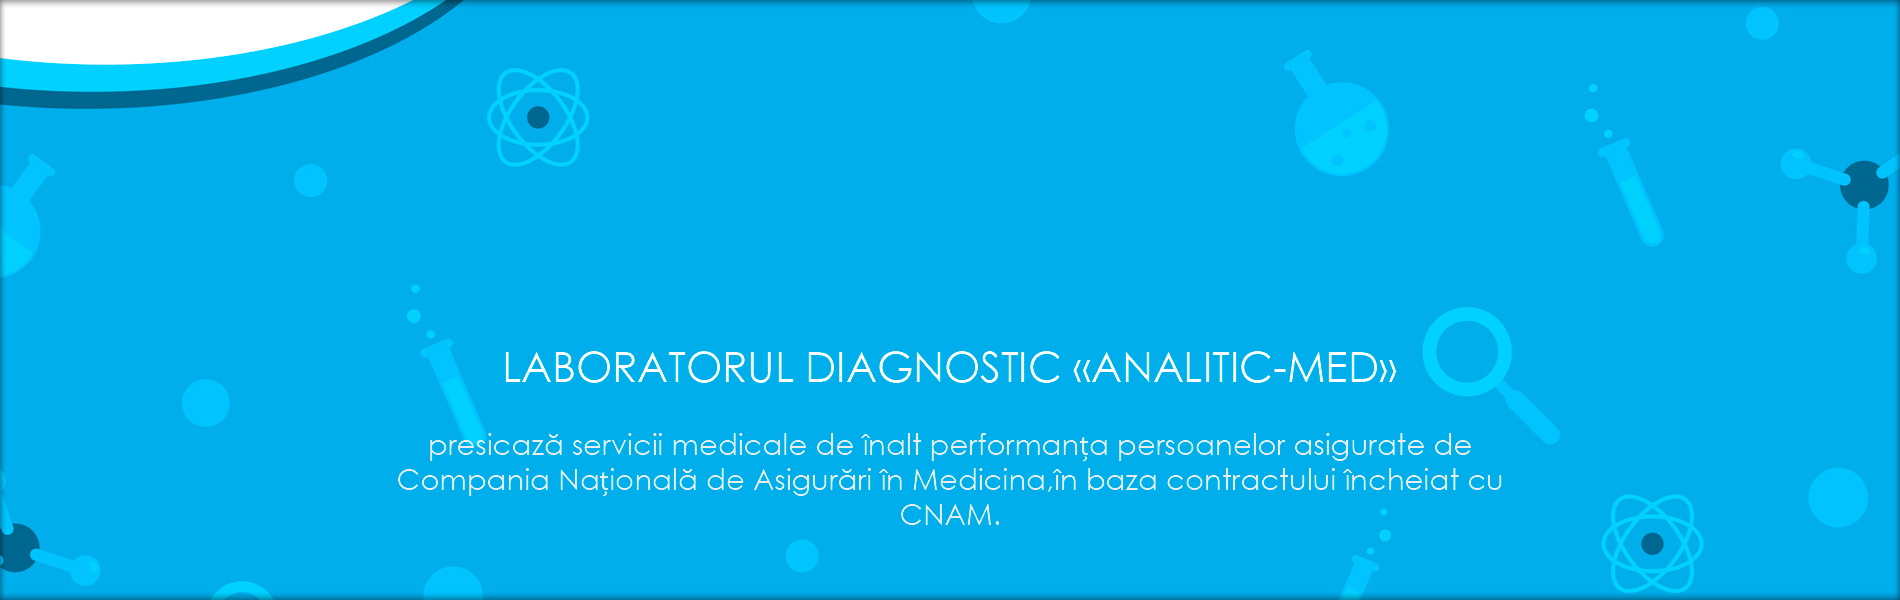
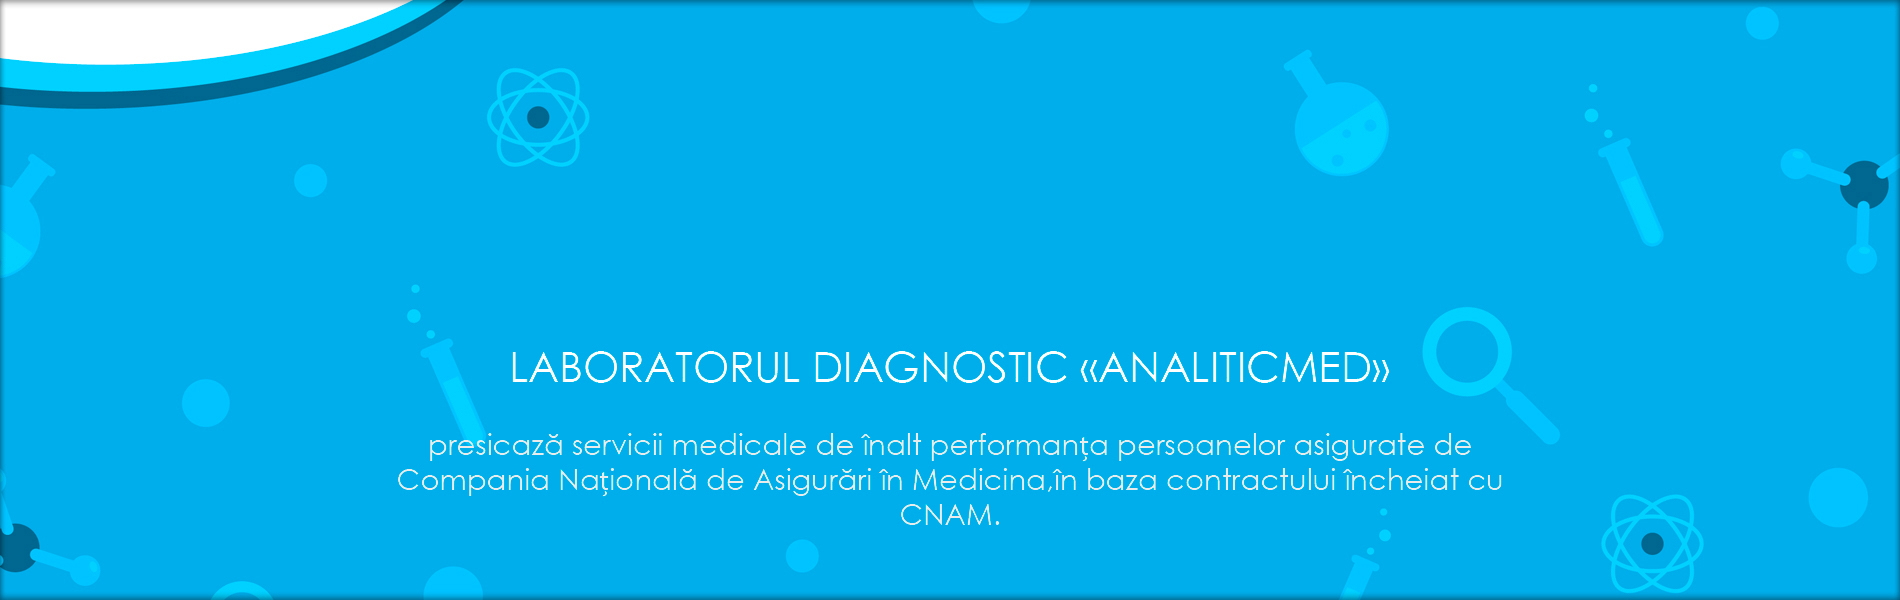
01.11

Changed region(s): [[0.2484, 0.57, 0.7453, 0.66]]

diff --git a/laravel-analiticmed/resources/views/main.blade.php b/laravel-analiticmed/resources/views/main.blade.php
@@ -1,6 +1,6 @@
 @extends('layout')
 
-@section('title') Analitic-Med @endsection
+@section('title') AnaliticMed @endsection
 
 
 @section('main_content')
@@ -87,6 +87,7 @@
 
         <h2 class="container fst-italic fw-bold mt-3 text-center">Suport Clienții</h2>
         <p class="lead text-center">Ne puteți contacta pentru a primi informație și consultanța noastră de calitatea.</p>
+        <br>
         <div class="text-center">
         <a href="feedback" class=" ml-auto mt-auto btn btn-primary w-50">Contactează</a></p>
         </div>
@@ -103,8 +104,8 @@
     <br>
 
     <div class="row featurette ">
-      <div class="col-md-7 h-50" >
-        <h2 class="featurette-heading text-center">„Traveling Covid-19 Free”<span class="text-muted">cu AnaliticMed</span></h2>
+      <div class="col-md-7 " >
+        <h2 class="featurette-heading text-center">„Traveling Covid-19 Free”<span class="text-muted">cu "AnaliticMed"</span></h2>
         <p class="lead text-center p-3">Aplicația „Traveling Covid-19 Free” vă permite să găsiți laboratoare din apropiere pentru a vă testa testele pentru Covid-19 înainte de a călători între Federația Rusă, Republica Armenia, Republica Belarus, Republica Uzbekistan, Republica Kazahstan, Republica Kârgâzstan, Republica Tadjikistan și Republica Azerbaidjan.
 La trecerea frontierei, arătați codul QR cu rezultatele testelor unui ofițer autorizat care are dreptul să solicite rezultatele testului PCR în conformitate cu reglementările naționale.</p> <br> <br>
         <p class="lead text-center">Descărcați aplicația oficială de pe <b>Play Market :</b></p>
@@ -119,12 +120,14 @@ La trecerea frontierei, arătați codul QR cu rezultatele testelor unui ofițer 
     <hr class="featurette-divider">
 
     <div class="row featurette">
-      <div class="col-md-7 order-md-2">
-        <h2 class="featurette-heading text-center">Oh yeah, it’s that good. <span class="text-muted">See for yourself.</span></h2>
-        <p class="lead text-center p-3">Another featurette? Of course. More placeholder Lorem ipsum, dolor sit amet consectetur adipisicing elit. Eaque iste recusandae minima ab quia esse impedit totam ullam sint, nesciunt voluptatibus quo ipsum magnam autem quam culpa suscipit! Iure, distinctio. ntent here to give you an idea of how this layout would work with some actual real-world content in place.</p>
+      <div class="col-md-7 order-md-2 ">
+        <h2 class="featurette-heading text-center">COVID-19 <span class="text-muted">De ce în "AnaliticMed"?</span></h2>
+        <p class="lead text-center p-3">În laboratorul nostru, puteți face orice test COVID-19 de care aveți nevoie și obțineți rezultatul cu un certificat<b class="fw-bold"> în aceeași zi.</b> Suntem singurul laborator care poate face asta.
+           Pentru a face acest lucru, trebuie doar să treceți analiza de la 8:00 pâna la 14:00 și deja după prânz, în aceeași zi, dumneavoastra vei primi certificatul.
+        <p class="lead text-center p-3">Pentru a afla regulile de efectuare a analizelor și alte detalii, intră aici sau <a href="feedback" class="fw-bold">contactează-ne.</a></p></p></p>
       </div>
       <div class="col-md-5 order-md-1">
-        <svg class="bd-placeholder-img bd-placeholder-img-lg featurette-image img-fluid mx-auto rounded" width="500" height="500" xmlns="http://www.w3.org/2000/svg" role="img" aria-label="Placeholder: 500x500" preserveAspectRatio="xMidYMid slice" focusable="false"><title>Placeholder</title><rect width="100%" height="100%" fill="#eee"></rect><text x="50%" y="50%" fill="#aaa" dy=".3em">500x500</text></svg>
+      <img class="bd-placeholder-img bd-placeholder-img-lg featurette-image img-fluid mx-auto rounded p-2" src="{{asset('images/covid2.jpg')}}" width="500" height="500" xmlns="http://www.w3.org/2000/svg" role="img" aria-label="Placeholder: 500x500" preserveAspectRatio="xMidYMid slice" focusable="false"><title>Placeholder</title><rect width="100%" height="100%" fill="#eee"></rect><text x="50%" y="50%" fill="#aaa" dy=".3em"></text></img>
 
       </div>
     </div>

diff --git a/laravel-analiticmed/resources/views/feed.blade.php b/laravel-analiticmed/resources/views/feed.blade.php
@@ -39,6 +39,73 @@
 
 </form>
 
+<div class="container mt-5">
+  
+  <h4 class="display-6 fst-italic fw-bold text-center">Contacte:<h4>
+ </div>
+      
+
+    <div class="container py-3">
+ 
+
+ <main>
+  
+   <div class="row row-cols-1 row-cols-md-3 mb-3 text-center">
+     <div class="col">
+       <div class="card mb-4 rounded-3 shadow-sm">
+         <div class="card-header py-3">
+         <svg xmlns="http://www.w3.org/2000/svg" width="48" height="48" fill="currentColor" class="bi bi-telephone" viewBox="0 0 16 16">
+ <path d="M3.654 1.328a.678.678 0 0 0-1.015-.063L1.605 2.3c-.483.484-.661 1.169-.45 1.77a17.568 17.568 0 0 0 4.168 6.608 17.569 17.569 0 0 0 6.608 4.168c.601.211 1.286.033 1.77-.45l1.034-1.034a.678.678 0 0 0-.063-1.015l-2.307-1.794a.678.678 0 0 0-.58-.122l-2.19.547a1.745 1.745 0 0 1-1.657-.459L5.482 8.062a1.745 1.745 0 0 1-.46-1.657l.548-2.19a.678.678 0 0 0-.122-.58L3.654 1.328zM1.884.511a1.745 1.745 0 0 1 2.612.163L6.29 2.98c.329.423.445.974.315 1.494l-.547 2.19a.678.678 0 0 0 .178.643l2.457 2.457a.678.678 0 0 0 .644.178l2.189-.547a1.745 1.745 0 0 1 1.494.315l2.306 1.794c.829.645.905 1.87.163 2.611l-1.034 1.034c-.74.74-1.846 1.065-2.877.702a18.634 18.634 0 0 1-7.01-4.42 18.634 18.634 0 0 1-4.42-7.009c-.362-1.03-.037-2.137.703-2.877L1.885.511z"/>
+</svg>
+           
+         </div>
+         <div class="card-body" >
+           <h5 class="text-center">Telefon:</h5>
+           <p class="lead text-muted">+373 231 70471</p>
+         <br>
+         <br>
+           
+         </div>
+       </div>
+     </div>
+     <div class="col">
+       <div class="card mb-4 rounded-3 shadow-sm">
+         <div class="card-header py-3">
+         <svg xmlns="http://www.w3.org/2000/svg" width="48" height="48" fill="currentColor" class="bi bi-geo-alt" viewBox="0 0 16 16">
+ <path d="M12.166 8.94c-.524 1.062-1.234 2.12-1.96 3.07A31.493 31.493 0 0 1 8 14.58a31.481 31.481 0 0 1-2.206-2.57c-.726-.95-1.436-2.008-1.96-3.07C3.304 7.867 3 6.862 3 6a5 5 0 0 1 10 0c0 .862-.305 1.867-.834 2.94zM8 16s6-5.686 6-10A6 6 0 0 0 2 6c0 4.314 6 10 6 10z"/>
+ <path d="M8 8a2 2 0 1 1 0-4 2 2 0 0 1 0 4zm0 1a3 3 0 1 0 0-6 3 3 0 0 0 0 6z"/>
+</svg>
+         </div>
+         <div class="card-body">
+           <h5 class="text-center">Adresa:</h5>
+           <p class="lead text-muted">Str. Decebal 101, Bălți, Republica Moldova, 3101</p>
+           
+         </div>
+       </div>
+     </div>
+     <div class="col">
+       <div class="card mb-4 rounded-3 shadow-sm mb-auto">
+         <div class="card-header py-3">
+         <svg xmlns="http://www.w3.org/2000/svg" width="48" height="48" fill="currentColor" class="bi bi-envelope" viewBox="0 0 16 16">
+ <path d="M0 4a2 2 0 0 1 2-2h12a2 2 0 0 1 2 2v8a2 2 0 0 1-2 2H2a2 2 0 0 1-2-2V4zm2-1a1 1 0 0 0-1 1v.217l7 4.2 7-4.2V4a1 1 0 0 0-1-1H2zm13 2.383-4.758 2.855L15 11.114v-5.73zm-.034 6.878L9.271 8.82 8 9.583 6.728 8.82l-5.694 3.44A1 1 0 0 0 2 13h12a1 1 0 0 0 .966-.739zM1 11.114l4.758-2.876L1 5.383v5.73z"/>
+</svg>
+         </div>
+         <div class="card-body">
+           <h5 class="text-center">E-Mail:</h5>
+           <p class="lead text-muted">analiticmed@mail.ru</p>
+           <br>
+           <br>
+         </div>
+       </div>
+     </div>
+   </div>
+         
+         </div>
+ </main>
+
+ 
+</div>
+
 
 
 

diff --git a/laravel-analiticmed/resources/views/layout.blade.php b/laravel-analiticmed/resources/views/layout.blade.php
@@ -95,7 +95,7 @@ position:absolute;
     <header class="d-flex flex-wrap justify-content-center py-3 mb-4">
       <a href="/" class="d-flex align-items-center mb-3 mb-md-0 me-md-auto text-dark text-decoration-none">
         <img class="bi me-2" src="{{asset('images/logo.png')}}" width="64" height="64"><use xlink:href="#bootstrap"></use></img>
-        <span class="fs-4 lead">Analitic-Med</span>
+        <span class="fs-4 lead">AnaliticMed</span>
       </a>
 
       <ul class="nav nav-pills ">
@@ -116,7 +116,7 @@ position:absolute;
 <div class="shadow-bottom mt-4">
 <div class="container">
   <footer class="d-flex flex-wrap justify-content-between align-items-center py-3 my-4">
-    <p class="col-md-4 mb-0 text-muted">© 2021 "Analitic-Med"</p>
+    <p class="col-md-4 mb-0 text-muted">© 2021 "AnaliticMed"</p>
 
     <a href="/" class="col-md-4 d-flex align-items-center justify-content-center mb-3 mb-md-0 me-md-auto link-dark text-decoration-none">
       <svg class="bi me-2" width="40" height="32"><use xlink:href="#bootstrap"></use></svg>

diff --git a/laravel-analiticmed/resources/views/servicii.blade.php b/laravel-analiticmed/resources/views/servicii.blade.php
@@ -22,6 +22,7 @@
               <li>1. Determinarea anticorpilor anti-SARS-CoV-2 IgM (Elisa)</li>
               <li>2. Determinarea anticorpilor anti-SARS-CoV-2 IgG (Elisa)</li>
               <li>3. Determinarea calitativă a ARN virusului SARS-CoV-2 prin metoda PCR (Real Time)</li>
+              <li>4. SARS-CoV-2 IgG QuantiSpike</li>
             </ul>
             <br>
           <p class="text-center text-muted">După informație mai detalizată va adresați in laborator.</p>
